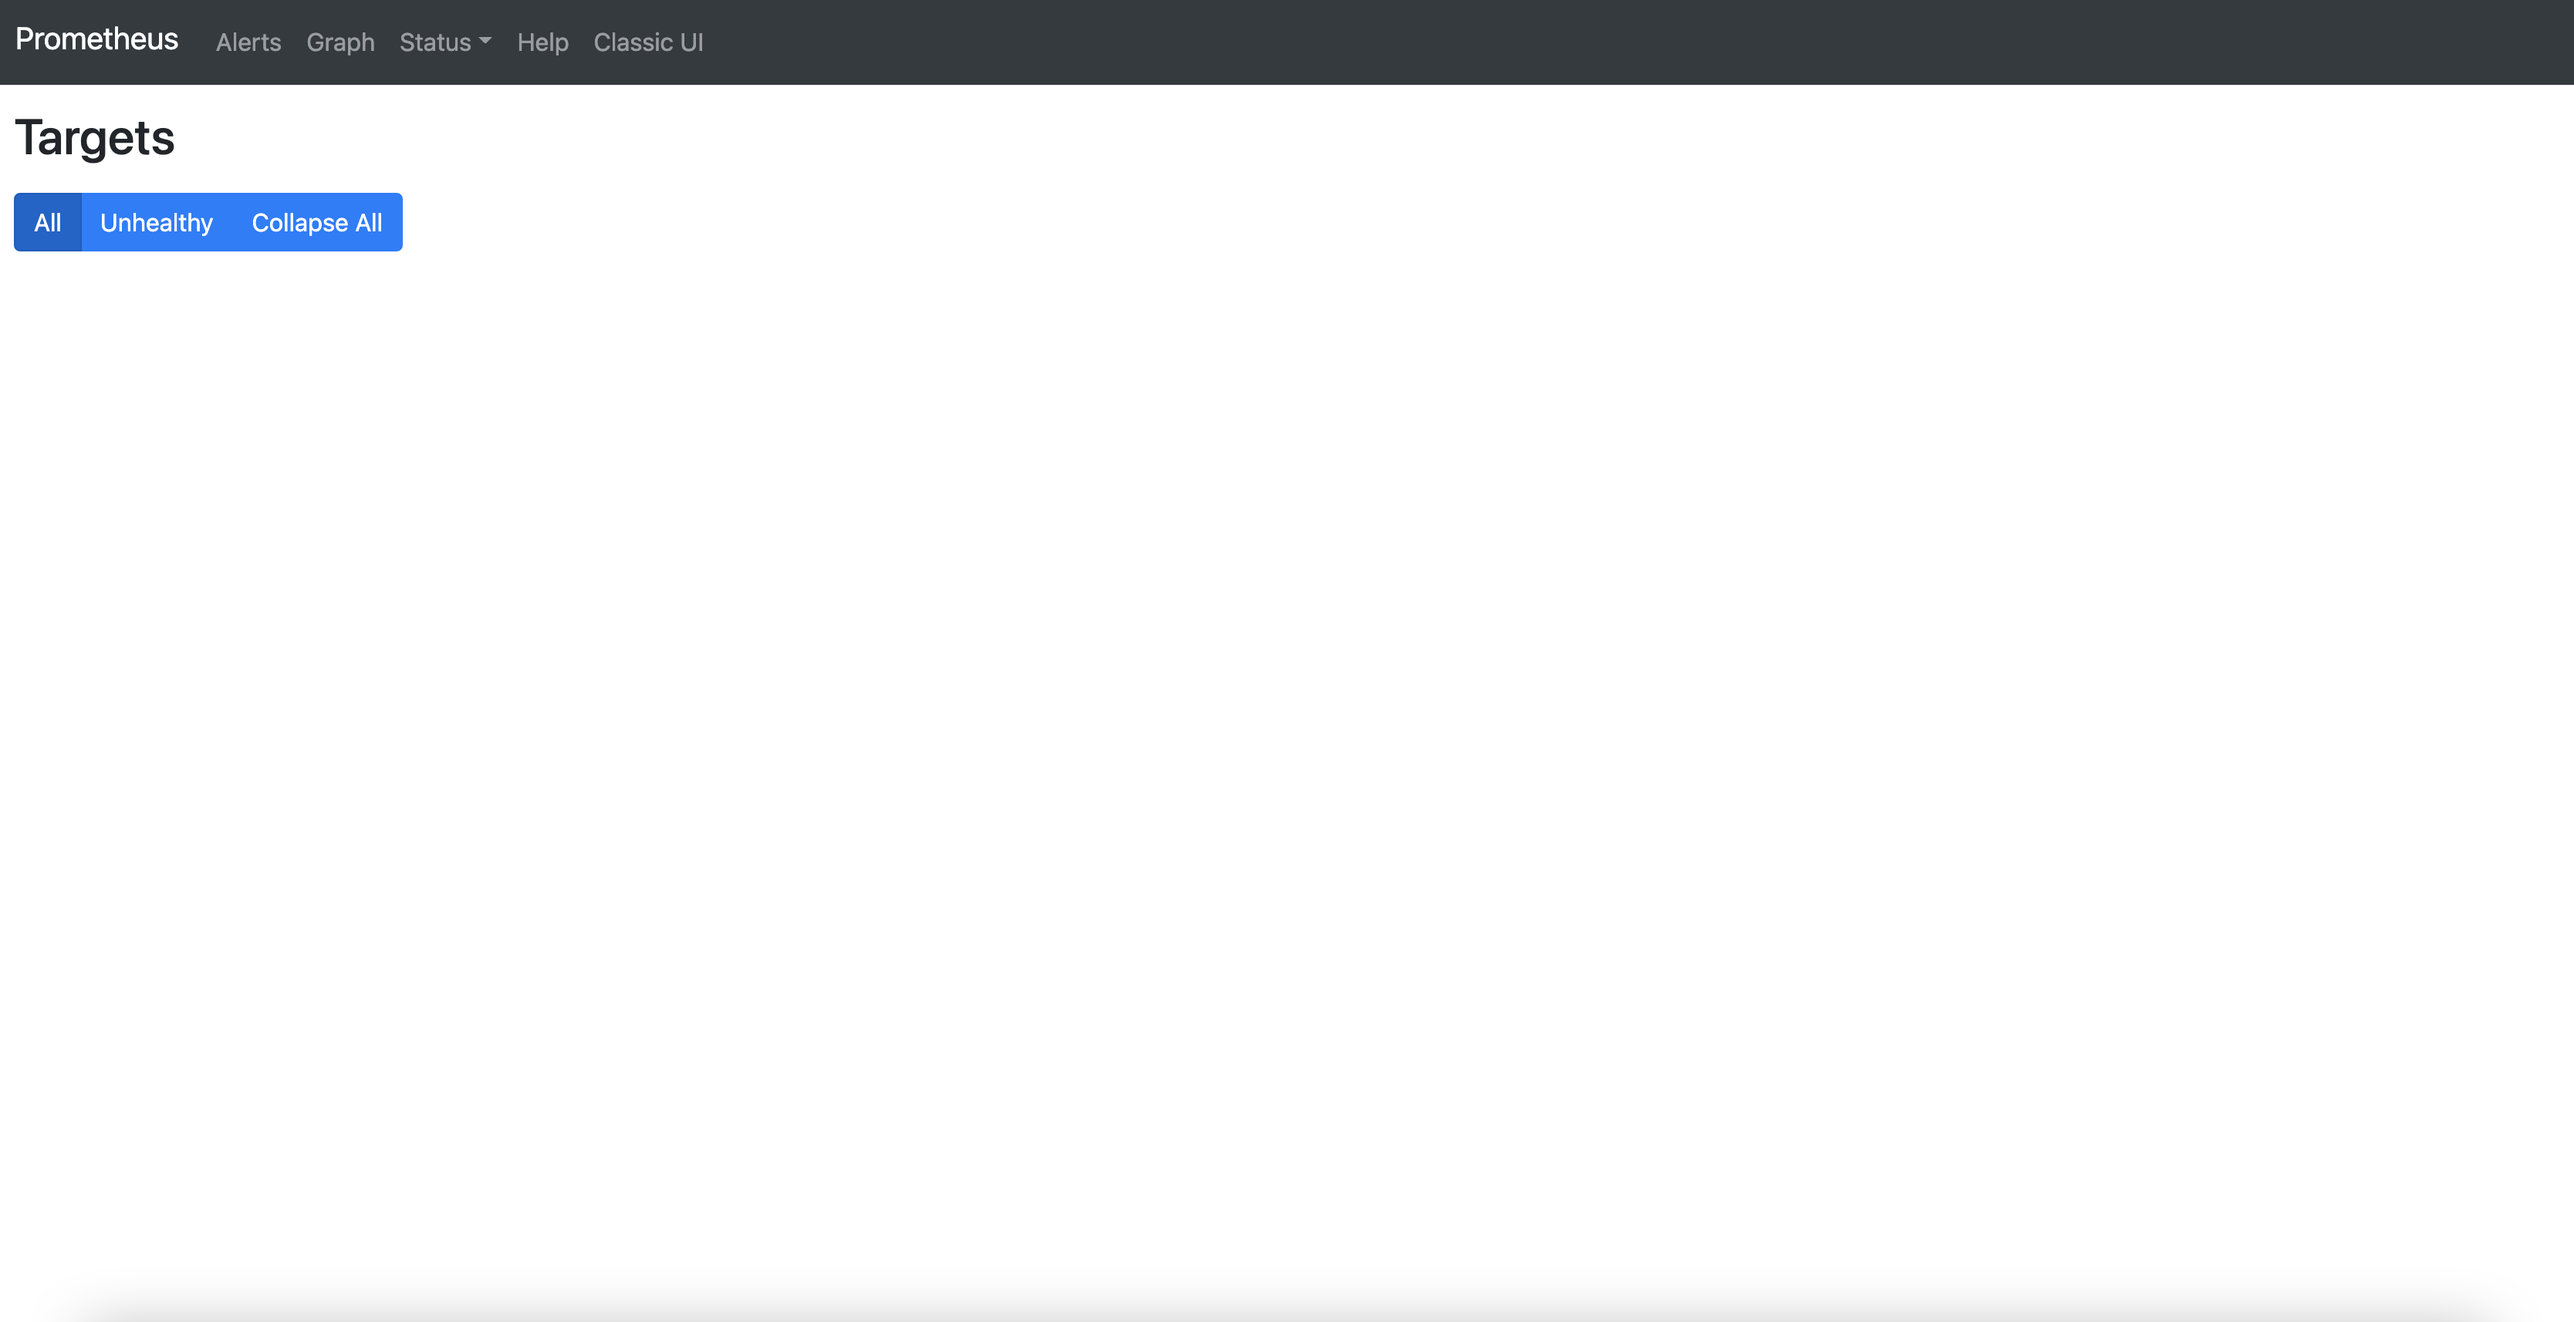
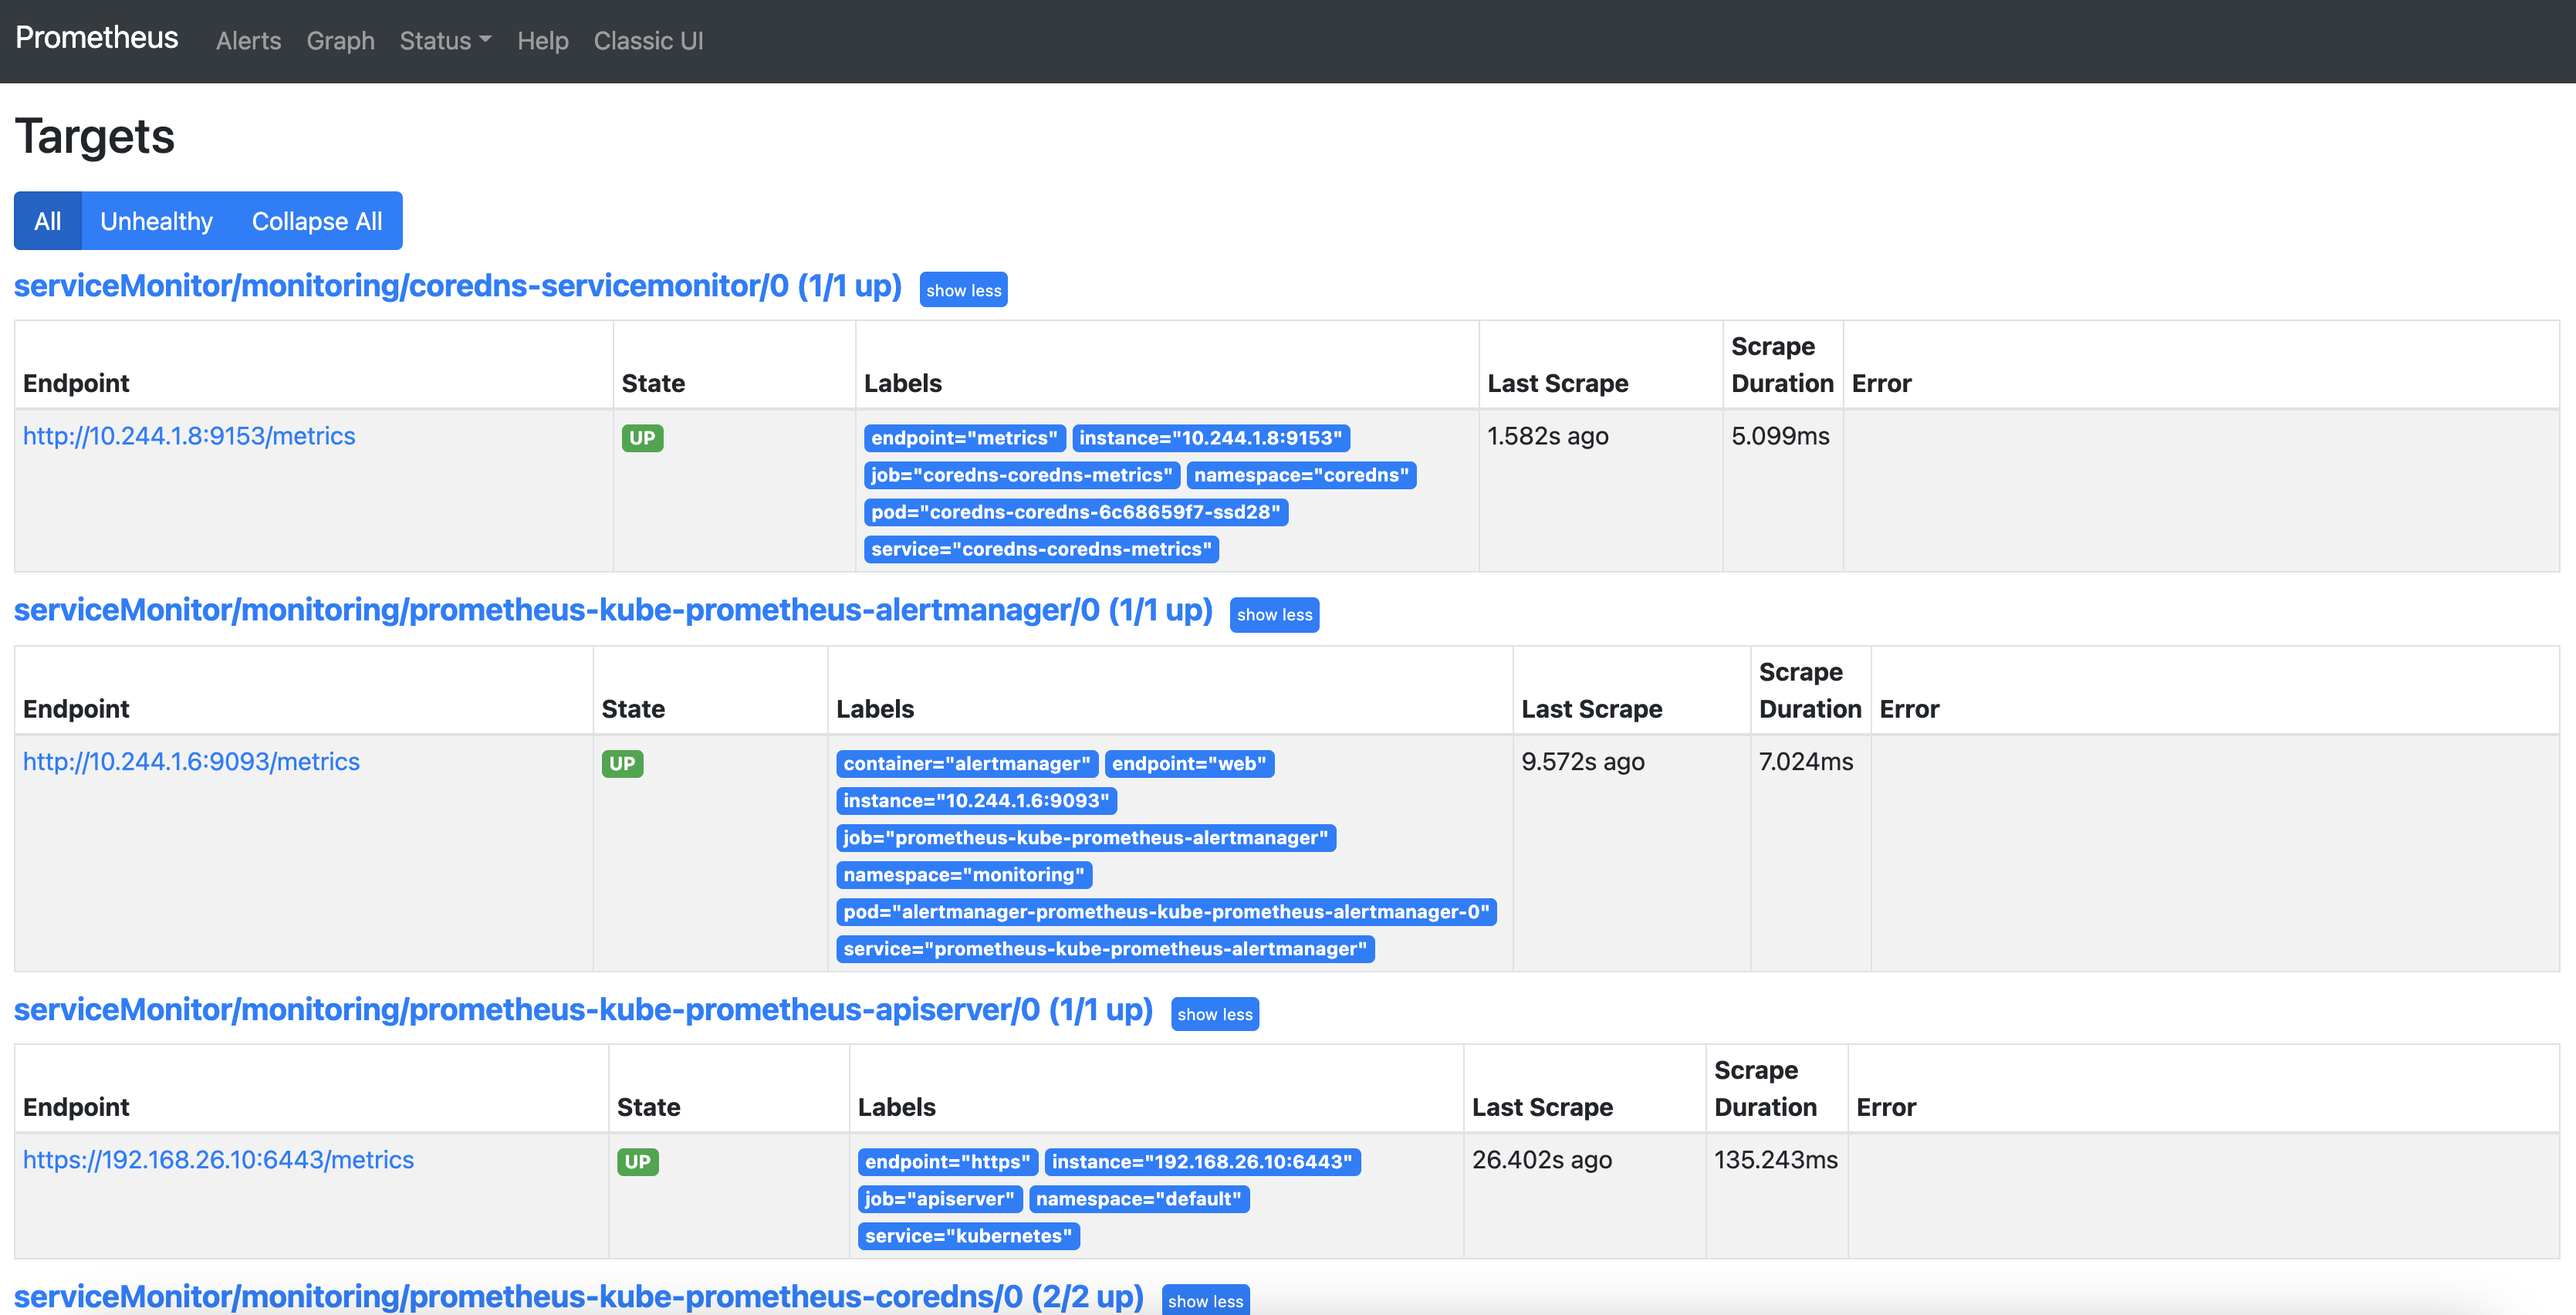
servicemonitor

diff --git a/labs/24-Monitoring/README.md b/labs/24-Monitoring/README.md
@@ -86,7 +86,7 @@ Try connecting to Grafana to see the build-in dashboards. To do so, open a port-
 
 ```console
 $ kubectl port-forward svc/prometheus-grafana --address 0.0.0.0 -n monitoring 3000:80
-Forwarding from 0.0.0.0:3000 -> 3000
+Forwarding from 0.0.0.0:3000 -> 80
 ```
 
 Now, pointing your browser to your computer on port 3000 you should access to Grafana (in most cases http://localhost:3000).
@@ -147,45 +147,7 @@ If there is a new metrics endpoint that matches the ServiceMonitor criteria, thi
 
 As you can see in the diagram above, the ServiceMonitor targets Kubernetes services, not the endpoints directly exposed by the pod(s).
 
-We already have a Prometheus deployment monitoring all the Kubernetes internal metrics (kube-state-metrics, node-exporter, Kubernetes API, etc) but now we need a separate deployment to take care of any other application running on top of the cluster.
-
-In order to do this new deployment, first let’s take a look at this Prometheus CRD before applying it to the cluster (you can find this file in the repository [here](prometheus.yaml))
-
-In this Prometheus server configuration file we can find:
-
-- The number of Prometheus replicas using this config (1)
-- The ruleSelector that will dynamically configure alerting rules
-- The Alertmanager deployment (could be more than one pod for redundancy) that will receive the triggered alerts
-- The **serviceMonitorSelector**, this is, the filter that will decide if a given serviceMonitor will be used to configure this Prometheus server.
-
-For this example we have decided that a serviceMonitor will be associated with this Prometheus deployment if it contains the label **serviceapp** in its metadata.
-
-```console
-$ kubectl apply -f prometheus.yaml
-prometheus.monitoring.coreos.com/service-prometheus created
-service/service-prometheus-svc created
-```
-
-Let's see if we can spot the newly created Prometheus instance (service-prometheus )
-
-
-```console
-$ kubectl get prometheus -n monitoring 
-NAME                                    VERSION   REPLICAS   AGE
-prometheus-kube-prometheus-prometheus   v2.26.0   1          8h
-service-prometheus                                1          69s
-```
-
-Let's see if this new Prometheus instance is available using a new port-forward
-
-```console
-$ kubectl port-forward svc/service-prometheus-svc --address 0.0.0.0 -n monitoring 9191:9090
-Forwarding from 0.0.0.0:9191 -> 9090
-```
-
-If you connect to this new Prometheus instance on your computer (in most cases http://localhost:9191), you notice that we don’t have any metrics target yet. 
-
-![Prometheus Home](img/7.png)
+We already have a Prometheus deployment monitoring all the Kubernetes internal metrics (kube-state-metrics, node-exporter, Kubernetes API, etc) and we want to use the same to monitor also our applications.
 
 We need a service to scrape: CoreDNS is a fast and flexible DNS server that exposes Prometheus metrics out of the box (using port 9153), we will use it for testing ServiceMonitors.
 
@@ -240,10 +202,10 @@ $ kubectl apply -f coredns-servicemonitor.yaml
 servicemonitor.monitoring.coreos.com/coredns-servicemonitor created
 ```
 
-If you go back to our new Prometheus instance GUI after a few minutes (using port-forward on port 9191->9090), you should see a new target being monitored (our CoreDNS instance)
+If you go back to our Prometheus instance GUI after a few minutes lates (using port-forward on port 9090->9090), you should see a new target being monitored (our CoreDNS instance)
 
-![Prometheus Target](img/8.png)
+![Prometheus Target](img/7.png)
 
 And metrics should have popped out as well
 
-![Prometheus Metrics](img/9.png)
+![Prometheus Metrics](img/8.png)
